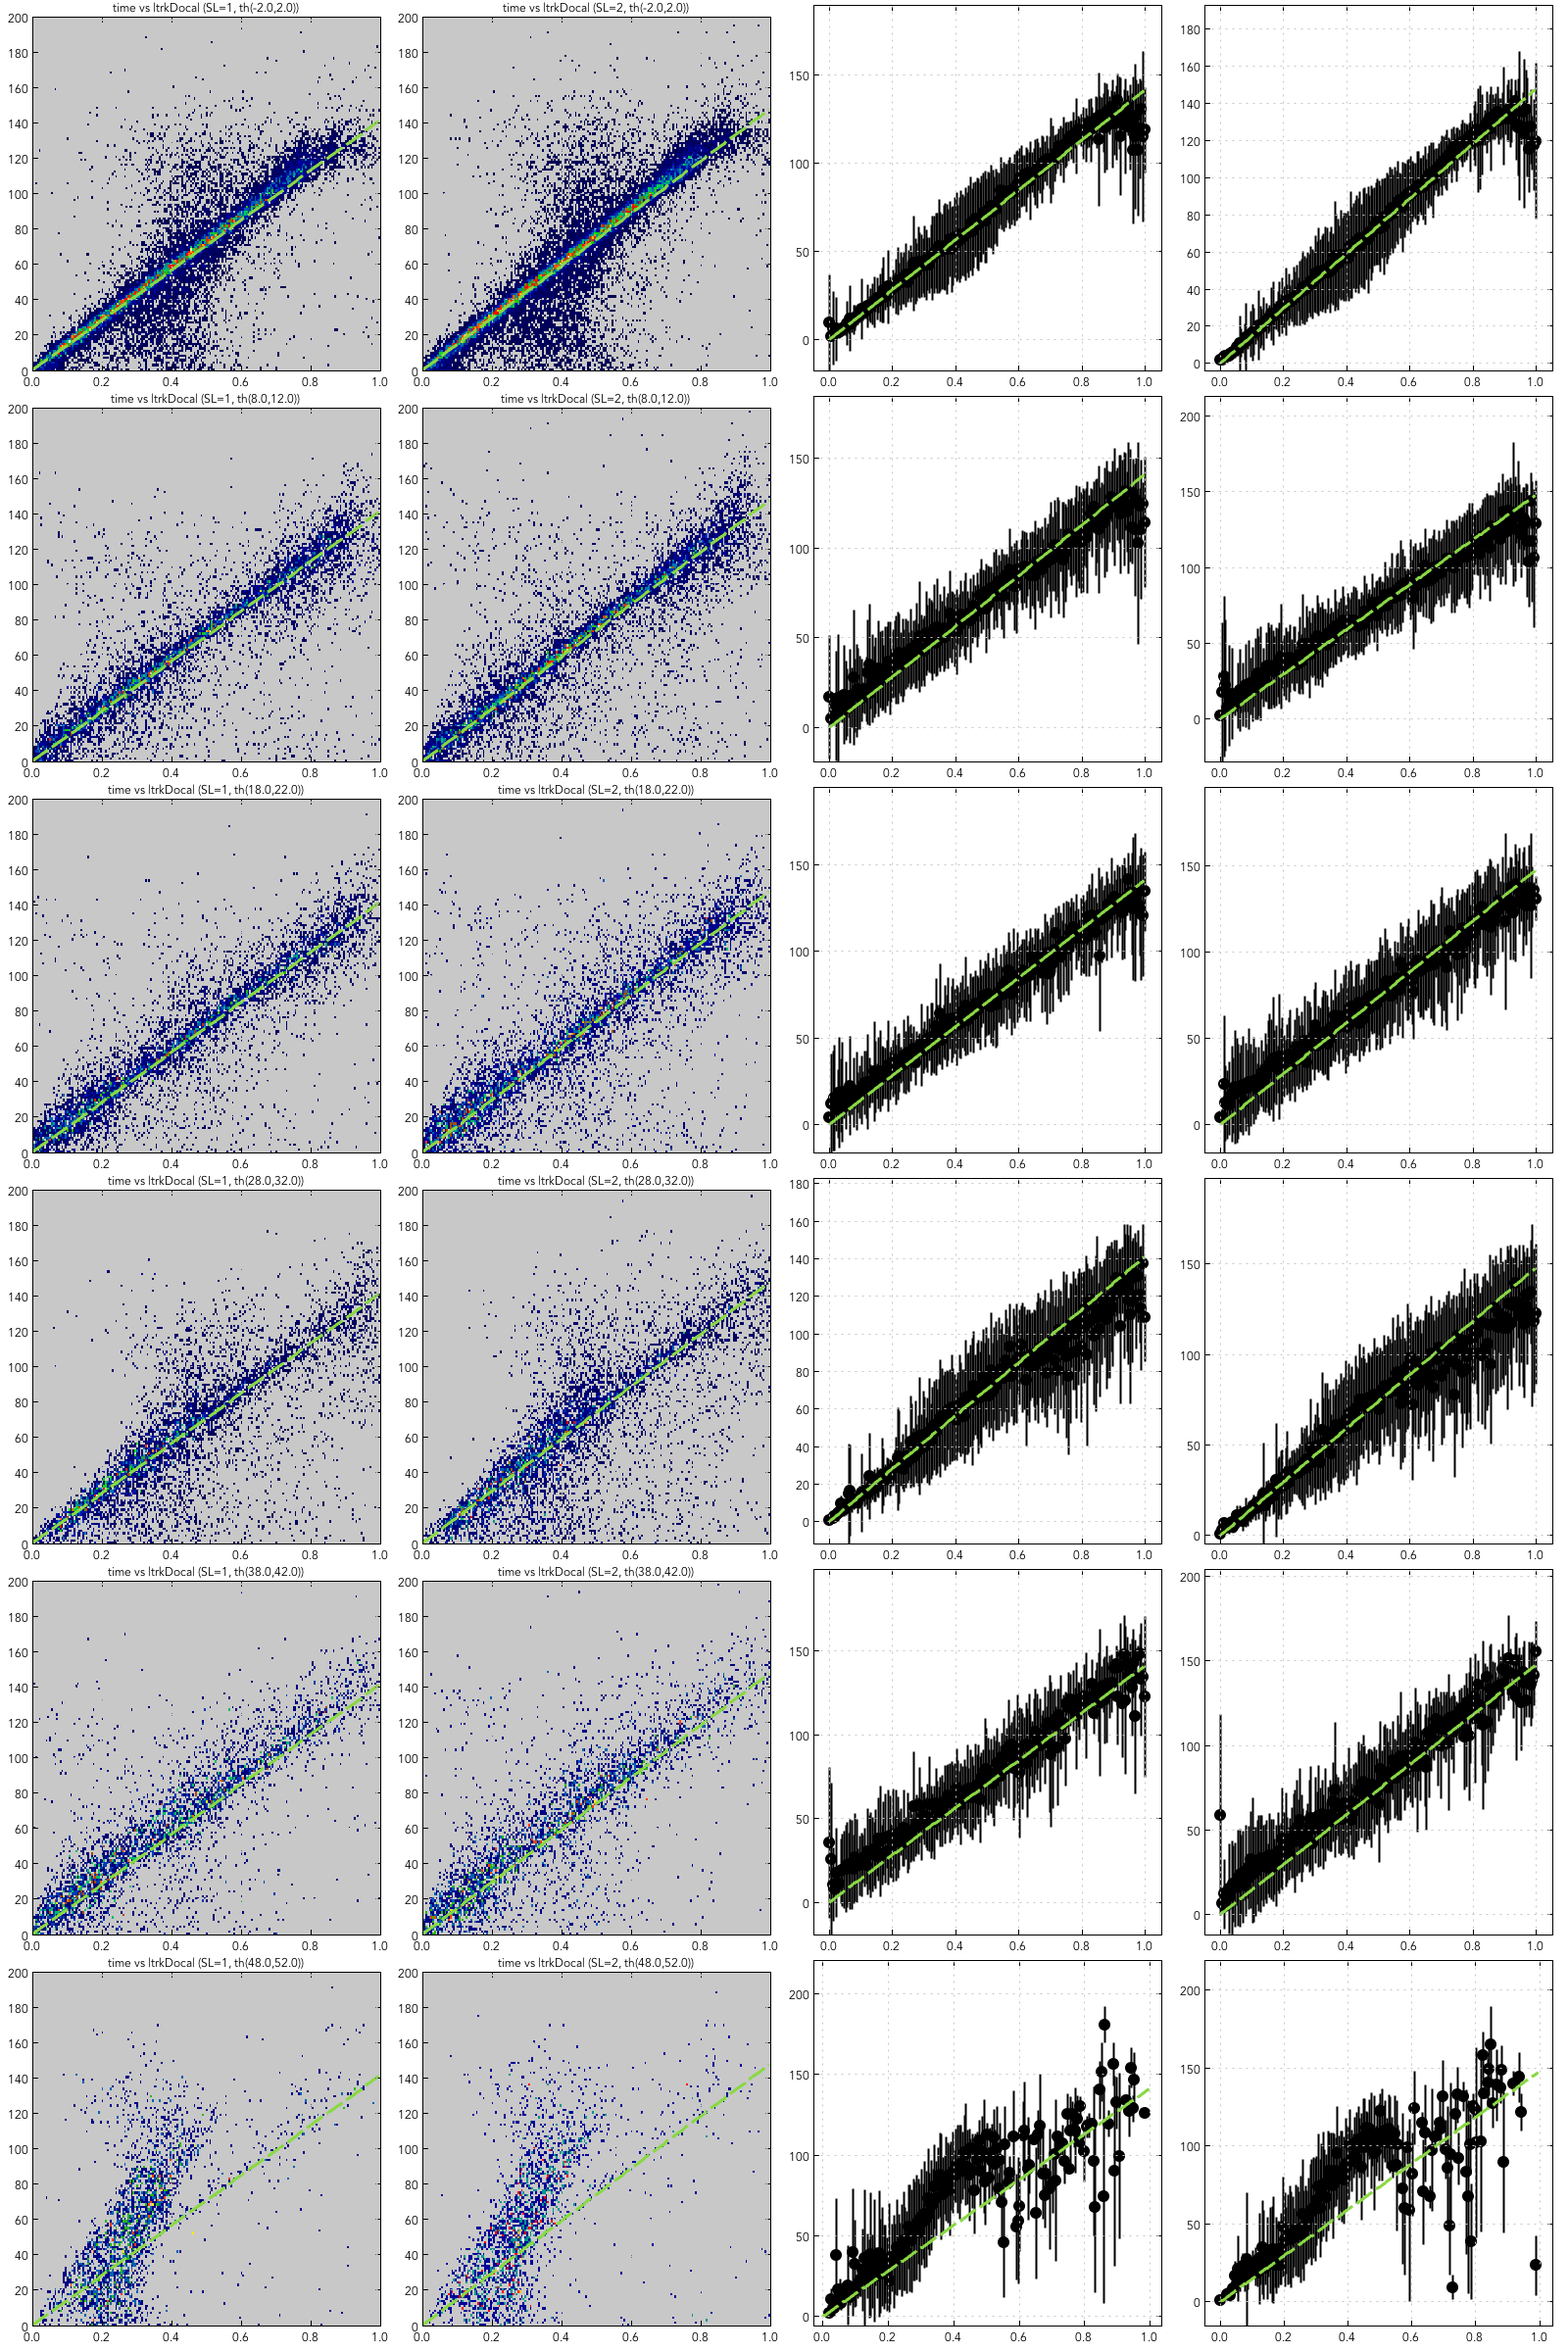
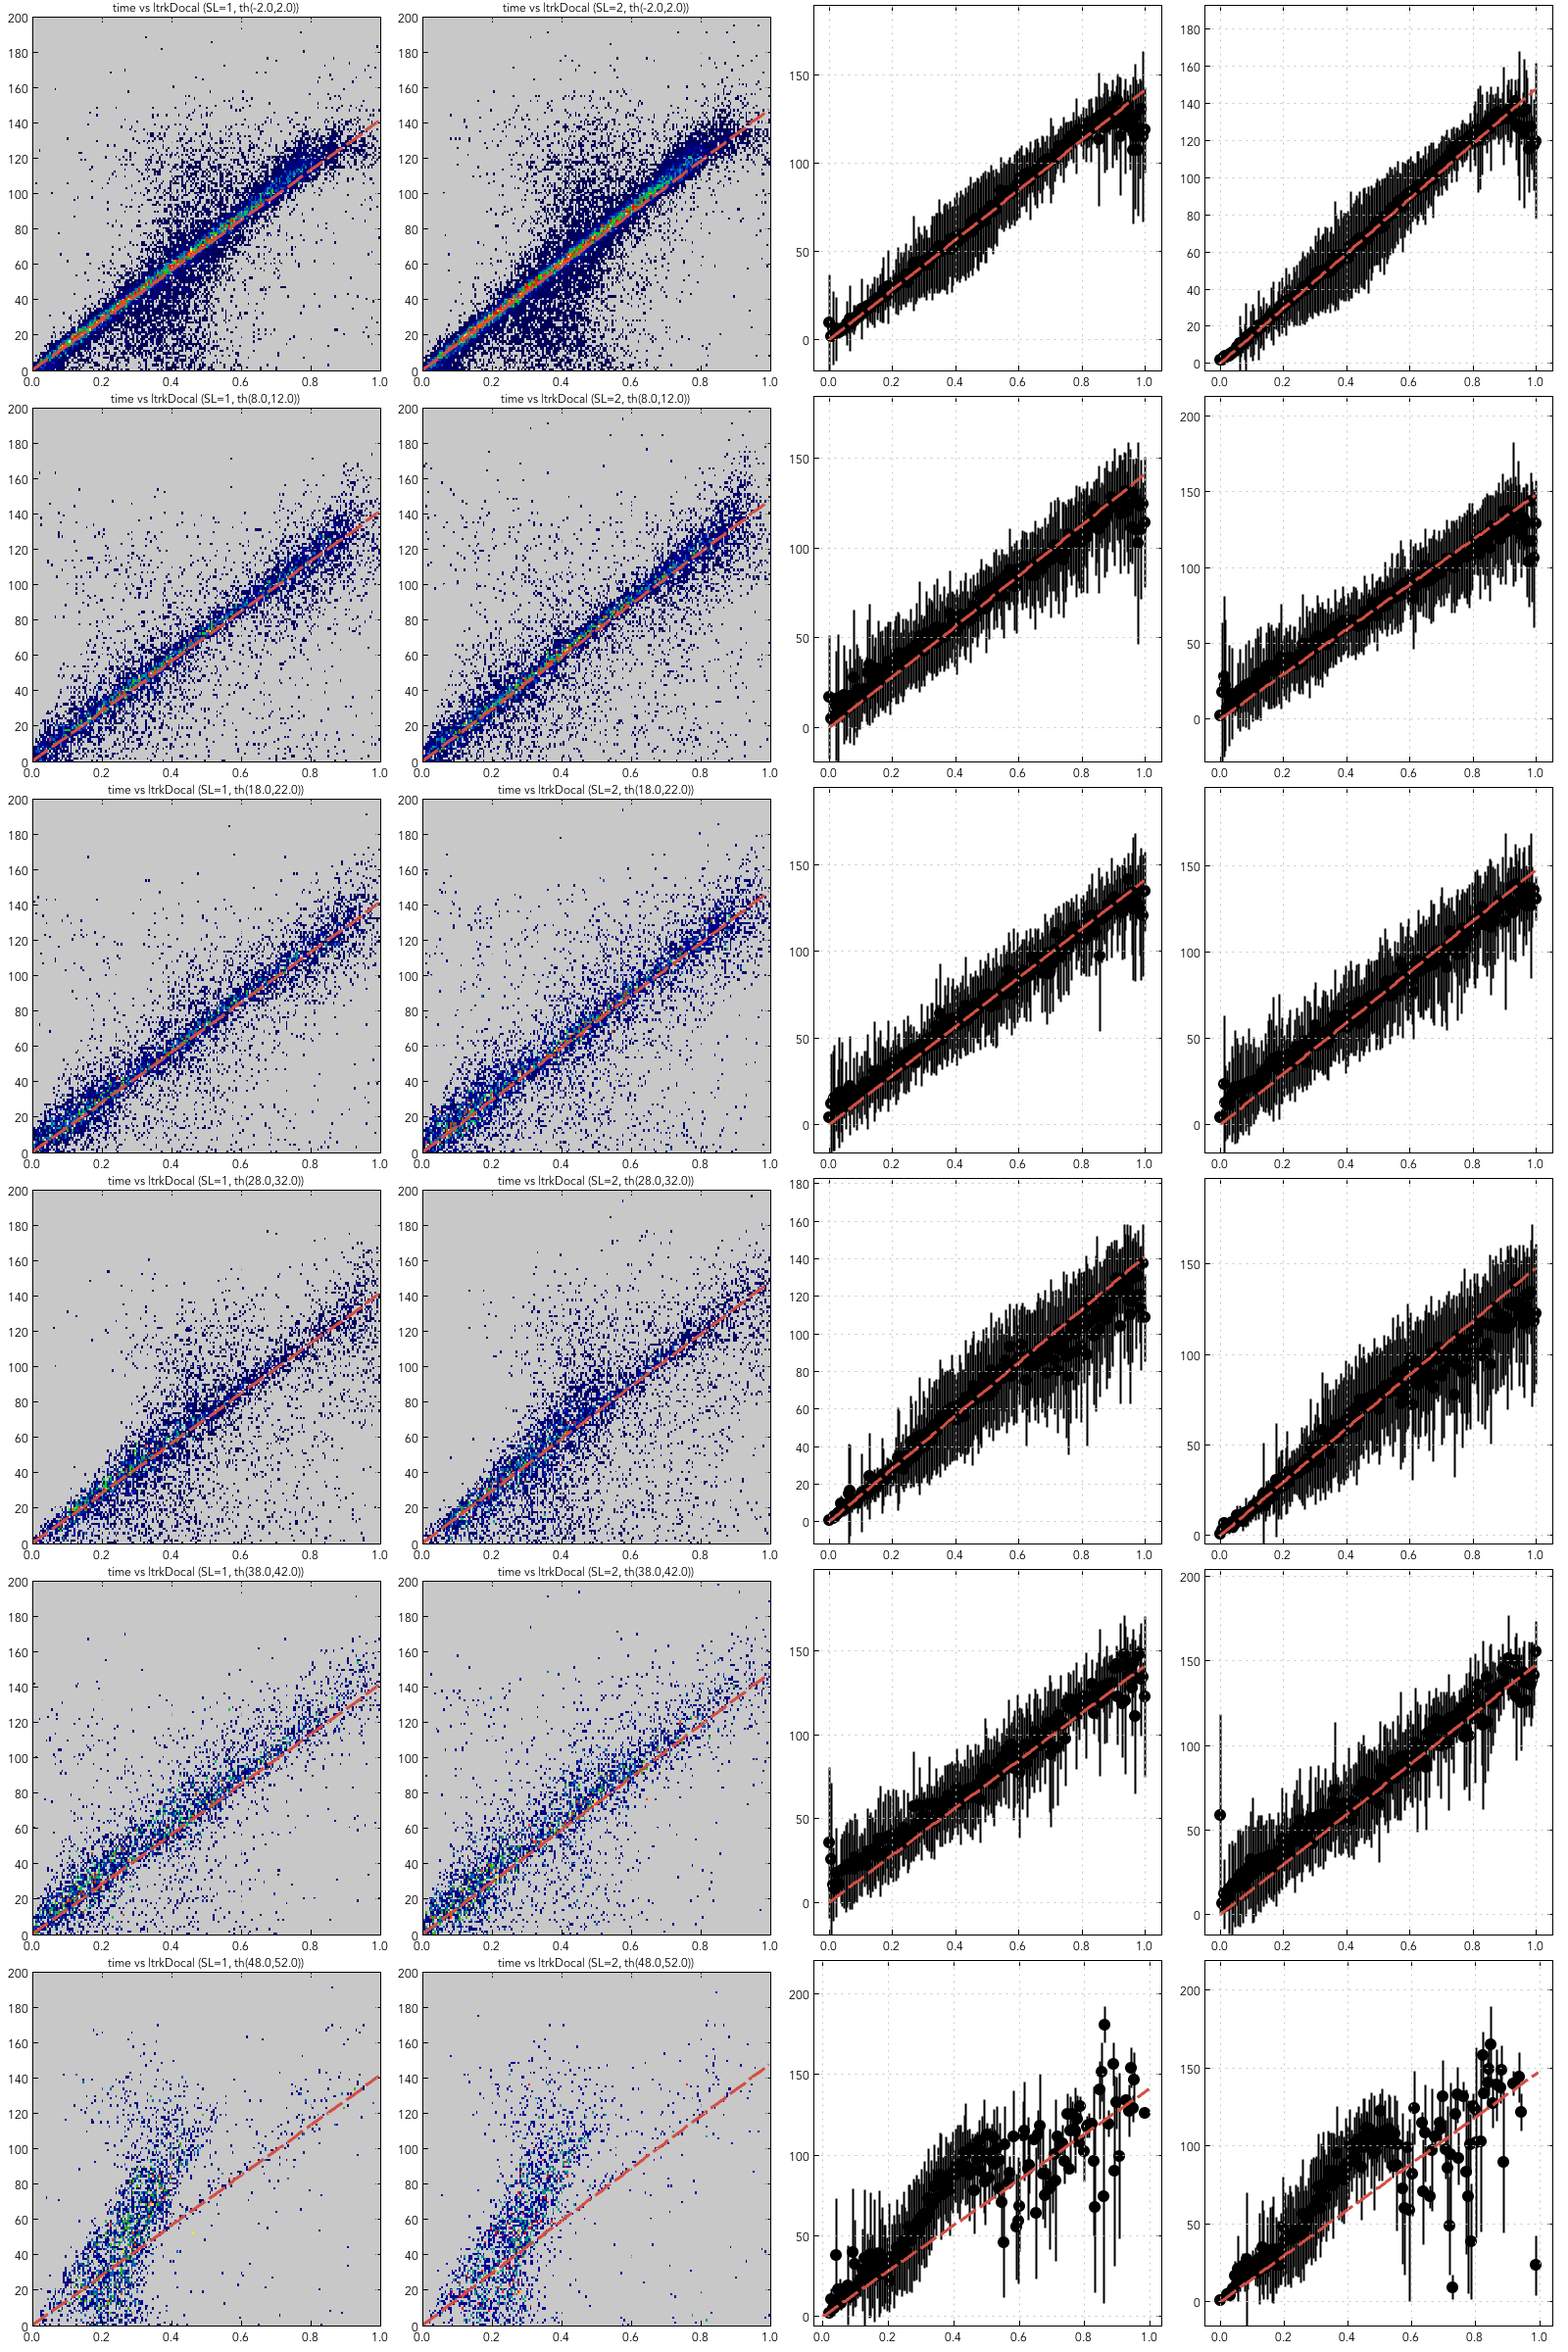
added a tabbed pane implemtation for viewing DC calibration plots

diff --git a/src/org/jlab/dc_calibration/domain/TimeToDistanceFitter.java b/src/org/jlab/dc_calibration/domain/TimeToDistanceFitter.java
@@ -93,6 +93,7 @@ public class TimeToDistanceFitter implements ActionListener, Runnable {
 	private ArrayList<String> fileArray;
 	private EvioDataChain reader;
 	private OrderOfAction OAInstance;
+	private DCTabbedPane dcTabbedPane;
 
 	public TimeToDistanceFitter(ArrayList<String> files, boolean isLinearFit) {
 		this.fileArray = files;
@@ -105,6 +106,7 @@ public class TimeToDistanceFitter implements ActionListener, Runnable {
 		this.fileArray = files;
 		this.OAInstance = OAInstance;
 		this.reader = new EvioDataChain();
+		this.dcTabbedPane = new DCTabbedPane("PooperDooper");
 		this.isLinearFit = isLinearFit;
 		createHists();
 	}
@@ -285,7 +287,7 @@ public class TimeToDistanceFitter implements ActionListener, Runnable {
 		c06.divide(4, 6);
 	}
 
-	public void processData() {
+	protected void processData() {
 		int counter = 0;
 		int icounter = 0;
 		for (String str : fileArray) {
@@ -454,7 +456,7 @@ public class TimeToDistanceFitter implements ActionListener, Runnable {
 		}
 	}
 
-	public void drawHistograms() {
+	protected void drawHistograms() {
 		createCanvas();
 		String imgNm;
 		profileX = new GraphErrors[nSL][2]; // 2 for 2 theta bins 0, 30 h2timeVtrkDoca.getProfileX();
@@ -508,9 +510,8 @@ public class TimeToDistanceFitter implements ActionListener, Runnable {
 		for (int i = 0; i < nSL; i++) {
 			for (int j = 0; j < nThBinsVz; j++) {
 				String hNm = String.format("myFitLinesS%dTh%d", i + 1, j);
-				System.out.println("debug10 ..");
 				myFitLinesGroot[i][j] = new calibFnToDraw_withGROOT(hNm, 0.0, 1.0, isLinearFit);
-				myFitLinesGroot[i][j].setLineColor(3);
+				myFitLinesGroot[i][j].setLineColor(2);
 				myFitLinesGroot[i][j].setLineWidth(3);
 				myFitLinesGroot[i][j].setLineStyle(4);
 				pars4FitLine[5] = 1.0 * (i + 1);
@@ -546,11 +547,17 @@ public class TimeToDistanceFitter implements ActionListener, Runnable {
 			String hNm = String.format("ResidualS%d", i);
 			h1Residual[i] = new H1F(hNm, 200, -1.0, 1.0);
 		}
+		// lets add the canvas's to the pane and draw it.
+		addToPane();
+	}
 
-		System.out.println("I should have created " + imgNm);
-		// for (int i = 0; i < nSL; i++) {
-		// for (int j = 0; j < nThBinsVz; j++) {}
-		// }
+	protected void addToPane() {
+		dcTabbedPane.addCanvasToPane("set 1", c0);
+		dcTabbedPane.addCanvasToPane("set 2", c01);
+		dcTabbedPane.addCanvasToPane("set 3", c03);
+		dcTabbedPane.addCanvasToPane("set 4", c06);
+		dcTabbedPane.showFrame();
+
 	}
 
 	public void runFitter() {
@@ -607,6 +614,7 @@ public class TimeToDistanceFitter implements ActionListener, Runnable {
 			JOptionPane.showMessageDialog(frame, "Click OK to start processing the time to distance fitting...");
 			processData();
 			drawHistograms();
+			// DCTabbedPane test = new DCTabbedPane();
 		} else
 			System.out.println("I am red and it is not my turn now ;( ");
 	}

diff --git a/src/org/jlab/dc_calibration/domain/DCTabbedPane.java b/src/org/jlab/dc_calibration/domain/DCTabbedPane.java
@@ -1,0 +1,73 @@
+/*  +__^_________,_________,_____,________^-.-------------------,
+ *  | |||||||||   `--------'     |          |                   O
+ *  `+-------------USMC----------^----------|___________________|
+ *    `\_,---------,---------,--------------'
+ *      / X MK X /'|       /'
+ *     / X MK X /  `\    /'
+ *    / X MK X /`-------'
+ *   / X MK X /
+ *  / X MK X /
+ * (________(                @author m.c.kunkel
+ *  `------'
+*/
+package org.jlab.dc_calibration.domain;
+
+import java.awt.Dimension;
+import java.awt.Toolkit;
+
+import javax.swing.JFrame;
+import javax.swing.JTabbedPane;
+
+import org.jlab.groot.graphics.EmbeddedCanvas;
+
+public class DCTabbedPane {
+
+	private Dimension screensize = null;
+	private JFrame frame = null;
+	private JTabbedPane tabbedPane = null;
+	private String frameName;
+
+	public DCTabbedPane(String frameName) {
+		init();
+		this.frameName = frameName;
+	}
+
+	private void setScreenSize() {
+		screensize = Toolkit.getDefaultToolkit().getScreenSize();
+	}
+
+	private void setJFrame() {
+		frame = new JFrame(frameName);
+		frame.setSize((int) (screensize.getHeight() * .75 * 1.618), (int) (screensize.getHeight() * .75));
+	}
+
+	private void setJTabbedPane() {
+		tabbedPane = new JTabbedPane();
+	}
+
+	private void init() {
+		setScreenSize();
+		setJFrame();
+		setJTabbedPane();
+	}
+
+	public void addCanvasToPane(String name, EmbeddedCanvas can) {
+		tabbedPane.add(name, can);
+	}
+
+	public void showFrame() {
+		frame.add(tabbedPane);
+		frame.setLocationRelativeTo(null);
+		frame.setVisible(true);
+	}
+
+	public static void main(String[] args) {
+
+		DCTabbedPane test = new DCTabbedPane("PooperDooper");
+		for (int i = 0; i < 10; i++) {
+			test.addCanvasToPane("sector " + (i + 1), new EmbeddedCanvas());
+		}
+		test.showFrame();
+
+	}
+}

diff --git a/src/org/jlab/dc_calibration/clients/DC_Calib.java b/src/org/jlab/dc_calibration/clients/DC_Calib.java
@@ -352,21 +352,22 @@ public class DC_Calib extends WindowAdapter implements WindowListener, ActionLis
 
 	public synchronized void actionPerformed(ActionEvent evt) {
 		// Handle open button action.
-		if (evt.getSource() == bFileChooser) {
-			int returnVal = fc.showOpenDialog(fc);
-			if (returnVal == JFileChooser.APPROVE_OPTION) {
-				file = fc.getSelectedFile();
-				try {
-					this.fileName = file.getCanonicalPath();
-				} catch (IOException e) {
-					e.printStackTrace();
-				}
-				System.out.println("Opening: " + fileName + "\n");
-			} else {
-				// log.append("Open command cancelled by user." + newline);
-				System.out.println("Open command cancelled by user.\n");
-			}
-		} else if (evt.getSource() == buttonClear) {
+		// if (evt.getSource() == bFileChooser) {
+		// int returnVal = fc.showOpenDialog(fc);
+		// if (returnVal == JFileChooser.APPROVE_OPTION) {
+		// file = fc.getSelectedFile();
+		// try {
+		// this.fileName = file.getCanonicalPath();
+		// } catch (IOException e) {
+		// e.printStackTrace();
+		// }
+		// System.out.println("Opening: " + fileName + "\n");
+		// } else {
+		// // log.append("Open command cancelled by user." + newline);
+		// System.out.println("Open command cancelled by user.\n");
+		// }
+		// } else if (evt.getSource() == buttonClear) {
+		if (evt.getSource() == buttonClear) {
 			textArea.setText("");
 		}
 		OA.buttonstatus(evt);

diff --git a/src/org/jlab/dc_monitoring/DCMonitoring.java b/src/org/jlab/dc_monitoring/DCMonitoring.java
@@ -224,11 +224,11 @@ public class DCMonitoring {
 		// Uncomment to test using EvioDataChain
 		EvioDataChain chain = new EvioDataChain();
 		String fileName =
-		        "/Volumes/Mac_Storage/Work_Codes/CLAS12/DC_Calibration/data/out_clasdispr.00.e11.000.emn0.75tmn.09.xs65.61nb.dis.1.evio";
+		        "/Users/michaelkunkel/WORK/CLAS/CLAS12/DC_Calibration/data/Calibration/cookedFiles/out_clasdispr.00.e11.000.emn0.75tmn.09.xs65.61nb.dis.1.evio";
 
 		chain.addFile(fileName);
-		fileName = "/Volumes/Mac_Storage/Work_Codes/CLAS12/DC_Calibration/data/out_clasdispr.00.e11.000.emn0.75tmn.09.xs65.61nb.dis.2.evio";
-		chain.addFile(fileName);
+		// fileName = "/Volumes/Mac_Storage/Work_Codes/CLAS12/DC_Calibration/data/out_clasdispr.00.e11.000.emn0.75tmn.09.xs65.61nb.dis.2.evio";
+		// chain.addFile(fileName);
 		DCMonitoring test = new DCMonitoring(chain);
 
 	}

diff --git a/src/org/jlab/dc_calibration/domain/KrishnaFcn.java b/src/org/jlab/dc_calibration/domain/KrishnaFcn.java
@@ -49,7 +49,7 @@ public class KrishnaFcn implements FCNBase {
 					docaNorm = profileX[sl][th].getDataX(i);
 					measTime = profileX[sl][th].getDataY(i);
 					measTimeErr = profileX[sl][th].getDataEY(i);
-					calcTime = isLinear ? calcTimeFunc(-1, sl + 1, docaNorm, par) : calcTimeFunc(-1, sl + 1, thetaDeg, docaNorm, par);
+					calcTime = isLinear ? calcTimeFunc(0, sl + 1, docaNorm, par) : calcTimeFunc(0, sl + 1, thetaDeg, docaNorm, par);
 
 					// 9/27/16: without docaNorm<0.9, the minimization was
 					// very unstable. For example,
